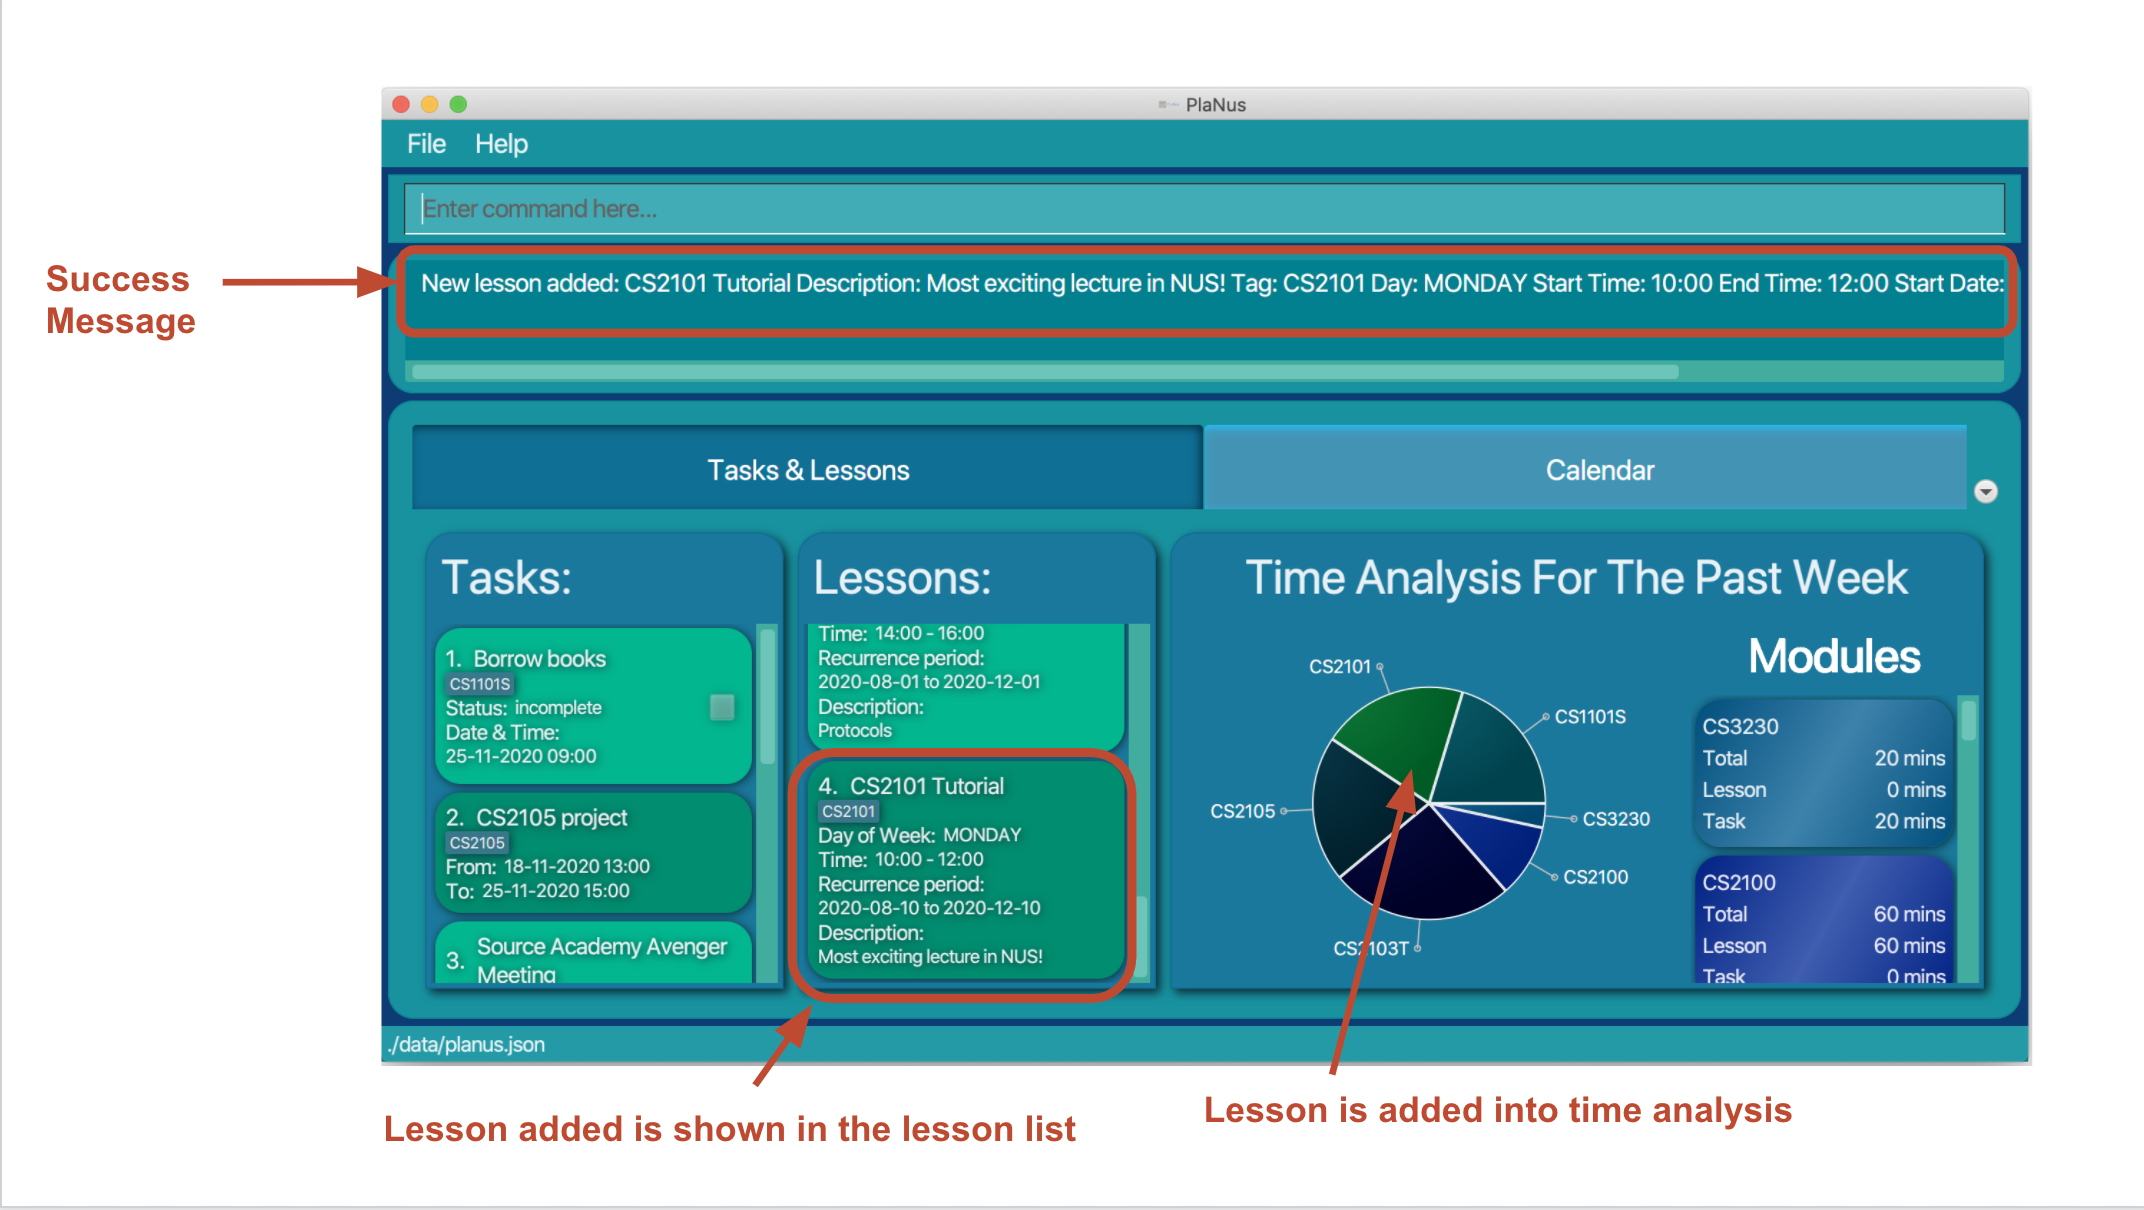
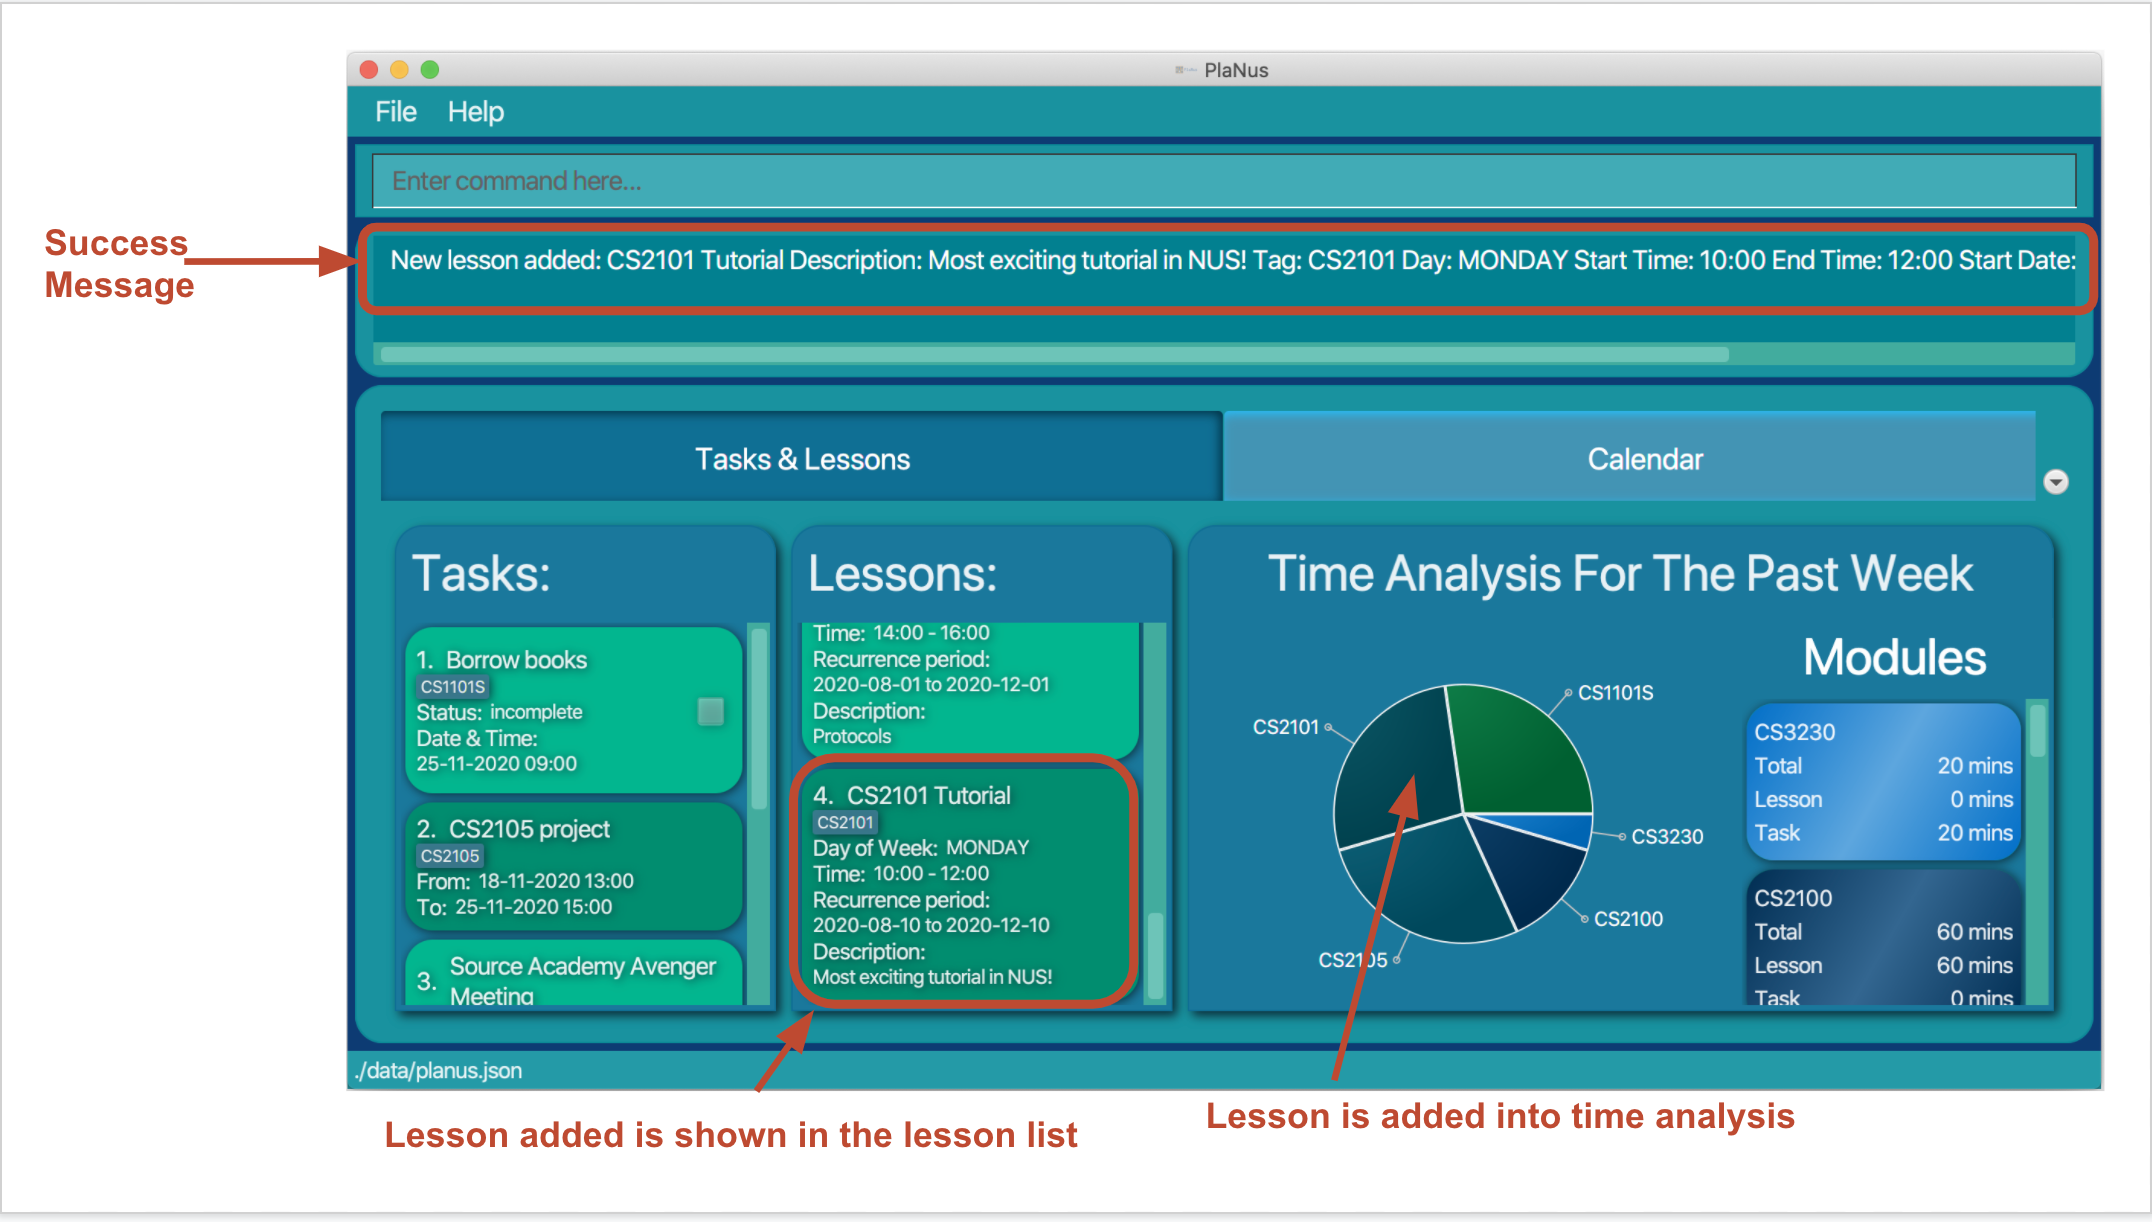
edit description of command

diff --git a/docs/UserGuide.md b/docs/UserGuide.md
@@ -474,7 +474,7 @@ To add a lesson named "CS2101 Tutorial" which is under module "CS2101", and happ
 from 10 Aug 2020 to 10 Dec 2020, users can do the following:
 
 1) Type in the command box the following command:
-* `lesson title:CS2101 Tutorial tag:CS2101 desc:Most exciting lecture in NUS! day:Monday from:10:00 to:12:00 start:10-08-2020 end:10-12-2020`
+* `lesson title:CS2101 Tutorial tag:CS2101 desc:Most exciting tutorial in NUS! day:Monday from:10:00 to:12:00 start:10-08-2020 end:10-12-2020`
 
 2) This adds the corresponding lesson to PlaNus. You can see the added lesson in the lesson list, calendar view and 
 time analysis.
